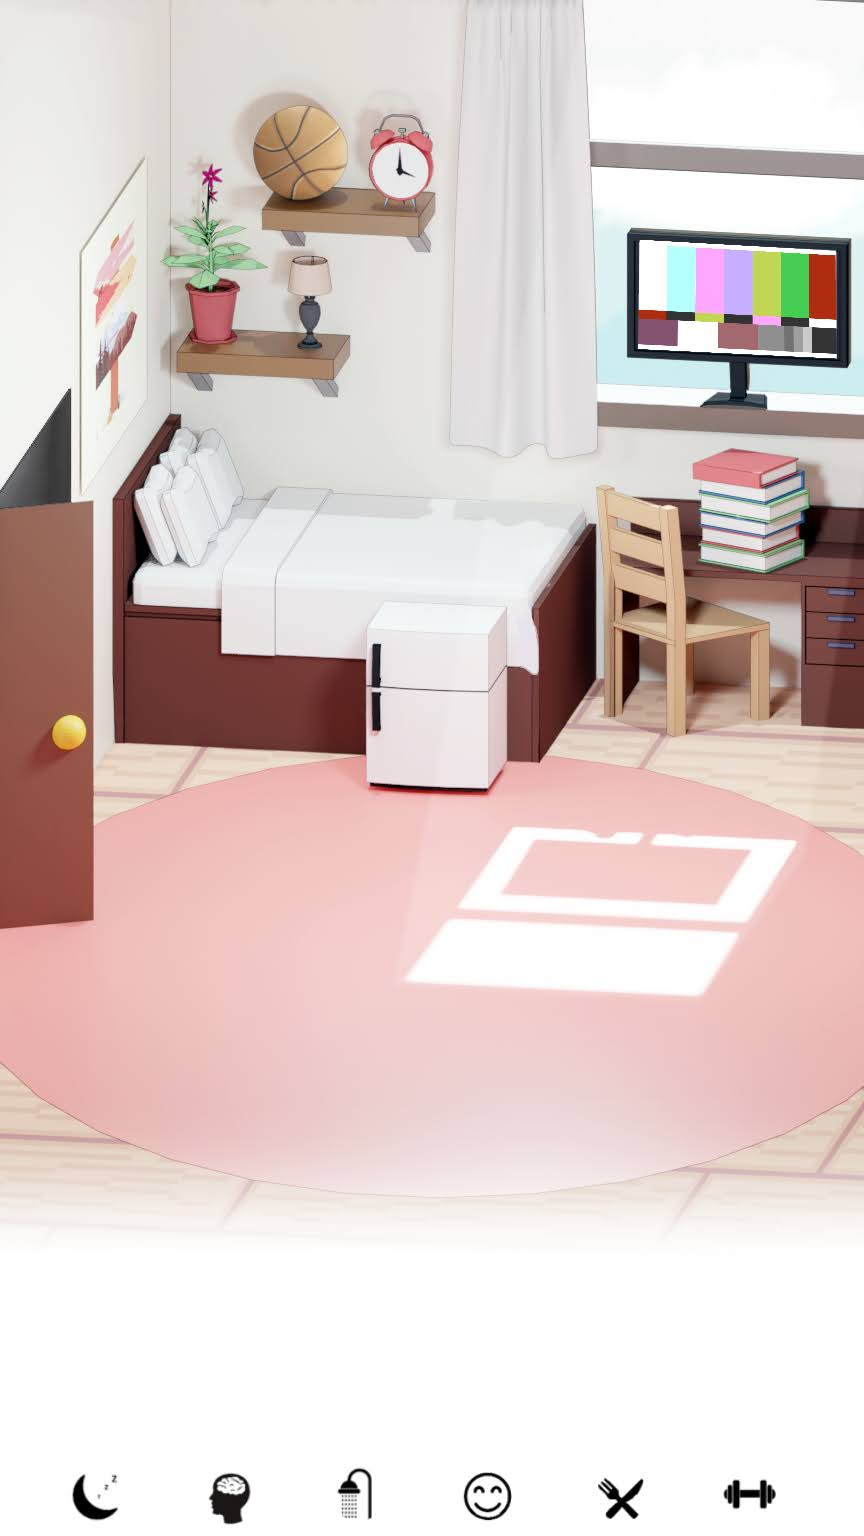
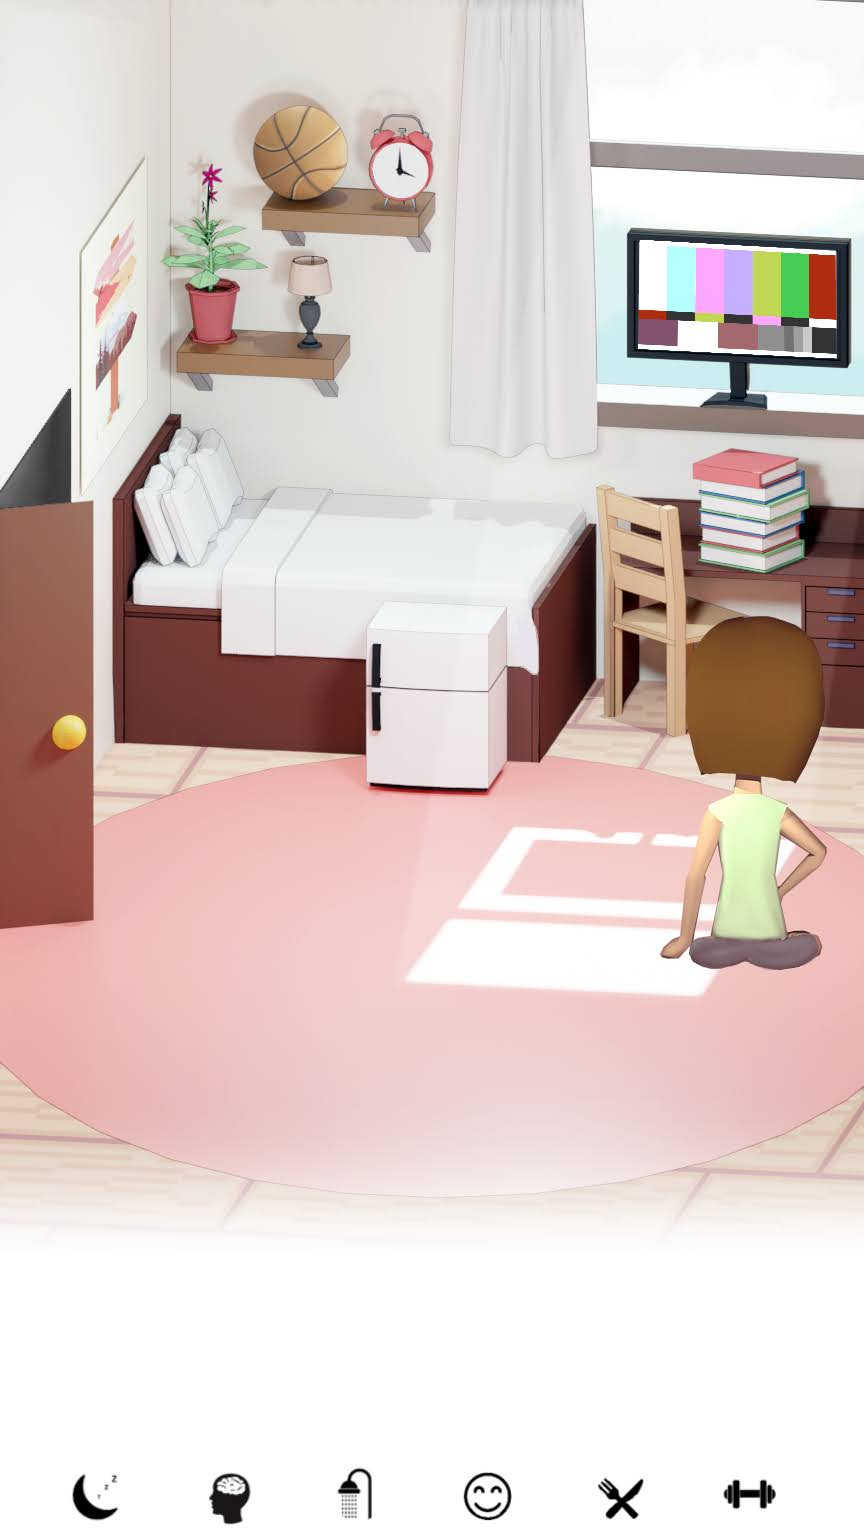
Replacing some images

Changed region(s): [[0.75, 0.375, 0.9688, 0.6562]]

diff --git a/project/core/src/edu/binghamton/cs/Dorm.java b/project/core/src/edu/binghamton/cs/Dorm.java
@@ -26,7 +26,7 @@ public class Dorm {
     //Needs
     public float timer = 0;
     public float bathroomTimer = 0;
-    static public int[] needs = {4, 4, 1, 1, 4, 4}; //Sleep=0, Study=1, hygiene=2, fun=3, hunger=4, fitness=5
+    static public int[] needs = {4, 4, 4, 4, 4, 4}; //Sleep=0, Study=1, hygiene=2, fun=3, hunger=4, fitness=5
 
     //Status Bars (8 levels. 0=Empty. 8=Full)
     static ArrayList<Texture> statusBars = new ArrayList<>();
@@ -64,6 +64,7 @@ public class Dorm {
     int watchingTV = 0;
     int atTV = 0;
     int tvBG = 0;
+    int justGotToTV = 0;
 
     //Sleep Button
     Texture sleepImg;
@@ -111,6 +112,7 @@ public class Dorm {
     Animation<TextureRegion> leftWalkAnimation;
     Animation<TextureRegion> rightWalkAnimation;
     TextureRegion currentFrame;
+    Texture mc_dead;
     SpriteBatch mc_batch;
     float stateTime;
     String dir = "left";
@@ -134,7 +136,7 @@ public class Dorm {
         sleepButton.setPosition(Gdx.graphics.getWidth()-1250,Gdx.graphics.getHeight()-1150);
         sleepButton.addListener(new ClickListener() {
             public void clicked(InputEvent event, float x, float y){
-                if(inBathoom==0 && watchingTV == 0) {
+                if(inBathoom==0 && watchingTV == 0 && isDead()==0) {
                     TeamProject.gameState = "sleep_minigame";
                 }
             }
@@ -149,7 +151,7 @@ public class Dorm {
         sleepButton2.setPosition(Gdx.graphics.getWidth()-880,Gdx.graphics.getHeight()-920);
         sleepButton2.addListener(new ClickListener() {
             public void clicked(InputEvent event, float x, float y){
-                if(inBathoom==0 && watchingTV == 0) {
+                if(inBathoom==0 && watchingTV == 0 && isDead()==0) {
                     TeamProject.gameState = "sleep_minigame";
                 }
             }
@@ -164,7 +166,7 @@ public class Dorm {
         studyButton.setPosition(Gdx.graphics.getWidth()-275,Gdx.graphics.getHeight()-890);
         studyButton.addListener(new ClickListener() {
             public void clicked(InputEvent event, float x, float y){
-                if(inBathoom==0 && watchingTV == 0) {
+                if(inBathoom==0 && watchingTV == 0 && isDead()==0) {
                     TeamProject.gameState = "study_minigame";
                 }
             }
@@ -179,7 +181,7 @@ public class Dorm {
         fitnessButton.setPosition(Gdx.graphics.getWidth()-1020,Gdx.graphics.getHeight()-310);
         fitnessButton.addListener(new ClickListener() {
             public void clicked(InputEvent event, float x, float y){
-                if(inBathoom==0 && watchingTV == 0) {
+                if(inBathoom==0 && watchingTV == 0 && isDead()==0) {
                     TeamProject.gameState = "sport_minigame";
                 }
             }
@@ -194,7 +196,7 @@ public class Dorm {
         hungerButton.setPosition(Gdx.graphics.getWidth()/2-105,Gdx.graphics.getHeight()/2-30);
         hungerButton.addListener(   new ClickListener() {
             public void clicked(InputEvent event, float x, float y){
-                if(inBathoom==0 && watchingTV == 0){
+                if(inBathoom==0 && watchingTV == 0 && isDead()==0){
                     TeamProject.gameState = "food_minigame";
                 }
             }
@@ -209,11 +211,14 @@ public class Dorm {
         doorButton.setPosition(0,Gdx.graphics.getHeight()-1440);
         doorButton.addListener(new ClickListener() {
             public void clicked(InputEvent event, float x, float y){
-                if(inBathoom==0 && watchingTV == 0){
+                if(inBathoom==0 && watchingTV == 0 && isDead()==0){
                     inBathoom = 1;
                 }
             }
         });
+
+        //MC dead pose
+        mc_dead = new Texture(Gdx.files.internal("data/dorm/mc_dead.png"));
 
         //Entertainment Button
         entertainmentImg = new Texture(Gdx.files.internal("data/dorm/entertainmentButton.png"));
@@ -224,7 +229,7 @@ public class Dorm {
         entertainmentButton.setPosition(Gdx.graphics.getWidth()-375,Gdx.graphics.getHeight()-635);
         entertainmentButton.addListener(new ClickListener() {
             public void clicked(InputEvent event, float x, float y){
-                if(inBathoom==0 && watchingTV == 0){
+                if(inBathoom==0 && watchingTV == 0 && isDead()==0){
                     watchingTV = 1;
                 }
             }
@@ -281,25 +286,36 @@ public class Dorm {
 
 
         //Drawing the character to the screen
-        if(dir=="left"){
-            currentFrame = leftWalkAnimation.getKeyFrame(stateTime, true);
-        }else{
-            currentFrame = rightWalkAnimation.getKeyFrame(stateTime, true);
-        }
         mc_batch.begin();
-        mc_batch.draw(currentFrame, mc_pos[0], mc_pos[1], 286,720);
+        if(isDead()==1){
+            currentFrame = new TextureRegion(mc_dead);
+            mc_batch.draw(currentFrame, mc_pos[0], mc_pos[1], 720,286);
+        }
+        else{
+            if(dir=="left"){
+                currentFrame = leftWalkAnimation.getKeyFrame(stateTime, true);
+            }else{
+                currentFrame = rightWalkAnimation.getKeyFrame(stateTime, true);
+            }
+            if(atTV==0){
+                mc_batch.draw(currentFrame, mc_pos[0], mc_pos[1], 286,720);
+            }
+        }
+
         mc_batch.end();
 
-        for(int i=0;i<5;i++){
-            if(mc_pos[0] == positions[i][0] && mc_pos[1] == positions[i][1]){
-                //Do a random idle animation for 5 seconds (display speech bubble)
-                //Then set a new position to walk towards
-                new_pos_index = ThreadLocalRandom.current().nextInt(0,4)%Gdx.graphics.getWidth();
-                if(mc_pos[0] < positions[new_pos_index][0]){ //Current x is less than destination x
-                    dir = "right";
-                }
-                else{ //Current x is greater than destination x
-                    dir = "left";
+        if(isDead()==0){
+            for(int i=0;i<5;i++){
+                if(mc_pos[0] == positions[i][0] && mc_pos[1] == positions[i][1]){
+                    //Do a random idle animation for 5 seconds (display speech bubble)
+                    //Then set a new position to walk towards
+                    new_pos_index = ThreadLocalRandom.current().nextInt(0,4)%Gdx.graphics.getWidth();
+                    if(mc_pos[0] < positions[new_pos_index][0]){ //Current x is less than destination x
+                        dir = "right";
+                    }
+                    else{ //Current x is greater than destination x
+                        dir = "left";
+                    }
                 }
             }
         }
@@ -357,7 +373,7 @@ public class Dorm {
         }
         else if (watchingTV == 1){
             dir = "right";
-            int[] dest = {1200, 1000};
+            int[] dest = {1000, 800};
             if (mc_pos[0] < dest[0]) { //Current x is less than destination x
                 mc_pos[0] += 2;
             } else { //Current x is greater than destination x
@@ -370,6 +386,10 @@ public class Dorm {
             }
             if(mc_pos[0]==dest[0] && mc_pos[1]==dest[1]){
                 atTV = 1;
+                if(justGotToTV==0){
+                    bg = new Texture(Gdx.files.internal("data/dorm/tvBG2.jpg"));
+                    justGotToTV = 1;
+                }
             }
         }
         if(atTV == 1){
@@ -395,6 +415,7 @@ public class Dorm {
             if(Dorm.needs[3] >= 8){
                 watchingTV = 0;
                 dir = "left";
+                justGotToTV = 0;
                 atTV = 0;
                 bg = new Texture(Gdx.files.internal("data/dorm/dormBG.png"));
             }
@@ -478,5 +499,14 @@ public class Dorm {
         this.rightWalkAnimation = new Animation<TextureRegion>((float)0.225, rightWalkFrames);
         this.stateTime = (float)0;
 
+    }
+
+    public int isDead(){
+        for(int i=0; i<6; i++){
+            if(needs[i]!=0){
+                return 0;
+            }
+        }
+        return 1; //All needs are at 0
     }
 }
